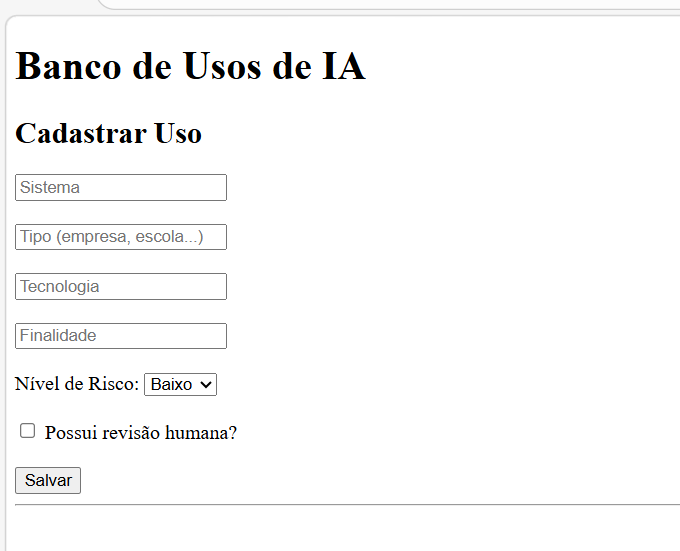
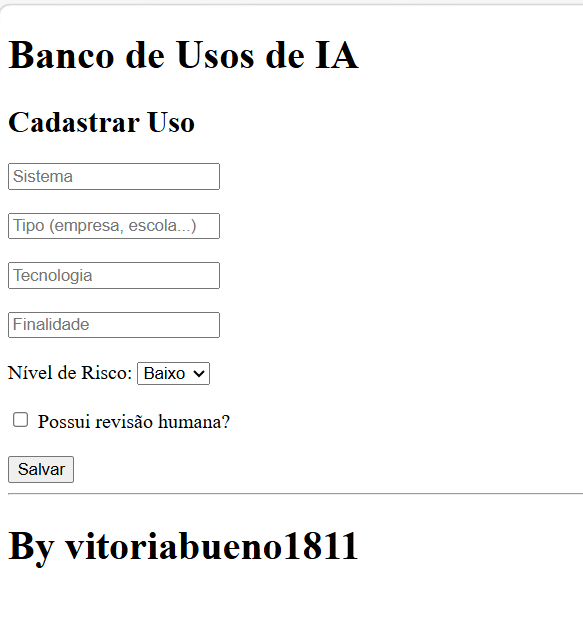
commit

diff --git a/server.js b/server.js
@@ -1,6 +1,7 @@
 const express = require("express")
 const fs = require("fs")
 const path = require("path")
+const API_URL = "http://127.0.0.1:3000/usos";
 
 const caminhoArquivo = path.join(__dirname, "dados.json")
 let usos = require(caminhoArquivo)
@@ -96,13 +97,34 @@ const alterarUso = (req, res) => {
     }
 }
 
+app.get("/usos", (req, res) => {
+    let resultado = usos;
+    
+    if (req.query.nivel_risco) {
+        resultado = resultado.filter(u => u.nivel_risco.toLowerCase() === req.query.nivel_risco.toLowerCase());
+    }
+    if (req.query.tipo) {
+        resultado = resultado.filter(u => u.tipo.toLowerCase() === req.query.tipo.toLowerCase());
+    }
+    res.json(resultado);
+});
+
 app.get("/usos", mostrarUsos)
 app.get("/usos/:id", mostrarUsoPorId)
 app.post("/usos", novoUso)
 app.delete("/usos/:id", excluirUso)
 app.put("/usos/:id", alterarUso)
 
+async function buscarUsos() {
+    const resposta = await fetch("http://127.0.0.1:3000/usos");
+    const dados = await resposta.json();
+    console.log(dados);
+}
+
+buscarUsos();
+
 const porta = 3000
 app.listen(porta, () => {
     console.log(`Servidor rodando em: http://127.0.0.1:${porta}`)
+    
 })

diff --git a/client/index.html b/client/index.html
@@ -5,7 +5,6 @@
   <title>Banco de Usos de IA</title>
 </head>
 <body>
-
   <h1>Banco de Usos de IA</h1>
 
   <h2>Cadastrar Uso</h2>
@@ -28,7 +27,8 @@
 
     <button type="submit">Salvar</button>
   </form>
-
   <hr>
+   <a href="http://127.0.0.1:3000/usos" target="_blank">Ver dados</a>
+  <h1><b>By vitoriabueno1811</b></h1>
 </body>
 </html>

diff --git a/README.md b/README.md
@@ -1,1 +1,42 @@
-# sesi_pbe1_vps01_Pesquisa_de_campo_2026
+# Banco de Usos de Inteligência Artificial
+
+Projeto desenvolvido para cadastrar e gerenciar diferentes usos de Inteligência Artificial por empresas, escolas e pessoas, identificando suas finalidades e níveis de risco.
+
+---
+# Tecnologias Utilizadas
+
+- **Node.js**
+- **JavaScript**
+- **HTML**
+- **VsCode**
+- **VsCode** Thunder Client
+
+---
+# Passos para Testar
+
+1. Clone este repositório
+2. Abra com VsCode e em um terminal digite:
+   ```bash
+   npm install
+
+3. Teste as rotas com a extensão ```Thunder Client do VsCode
+4. Abra o arquivo ```client/index.html com a extensão Live Server do VsCode
+---
+
+# Print dos testes e exemplo de requisições
+
+- **CREATE**
+![CREATE](./Prints/Print01.png)
+
+- **READ ALL**
+![CREATE ALL](./Prints/Print02.png)
+
+- **BUSCAR**
+![BUSCAR](./Prints/Print05.png)
+---
+
+# Cliente 
+
+![INDEX](index.png)
+
+![Resposta](Resposta.png)
